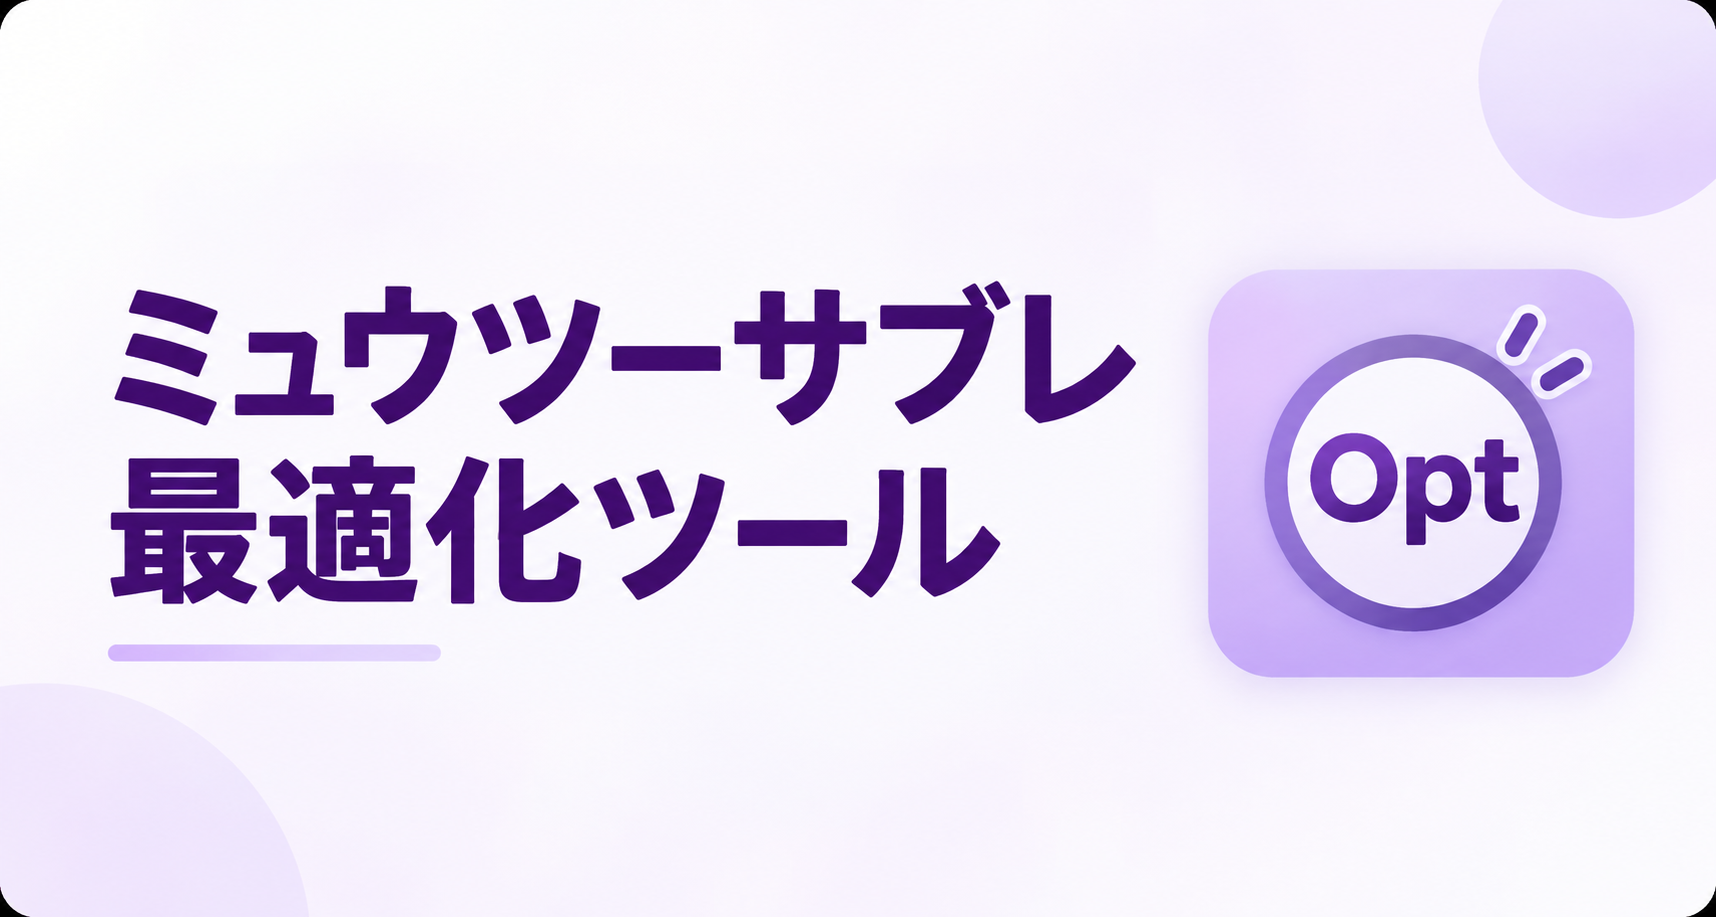
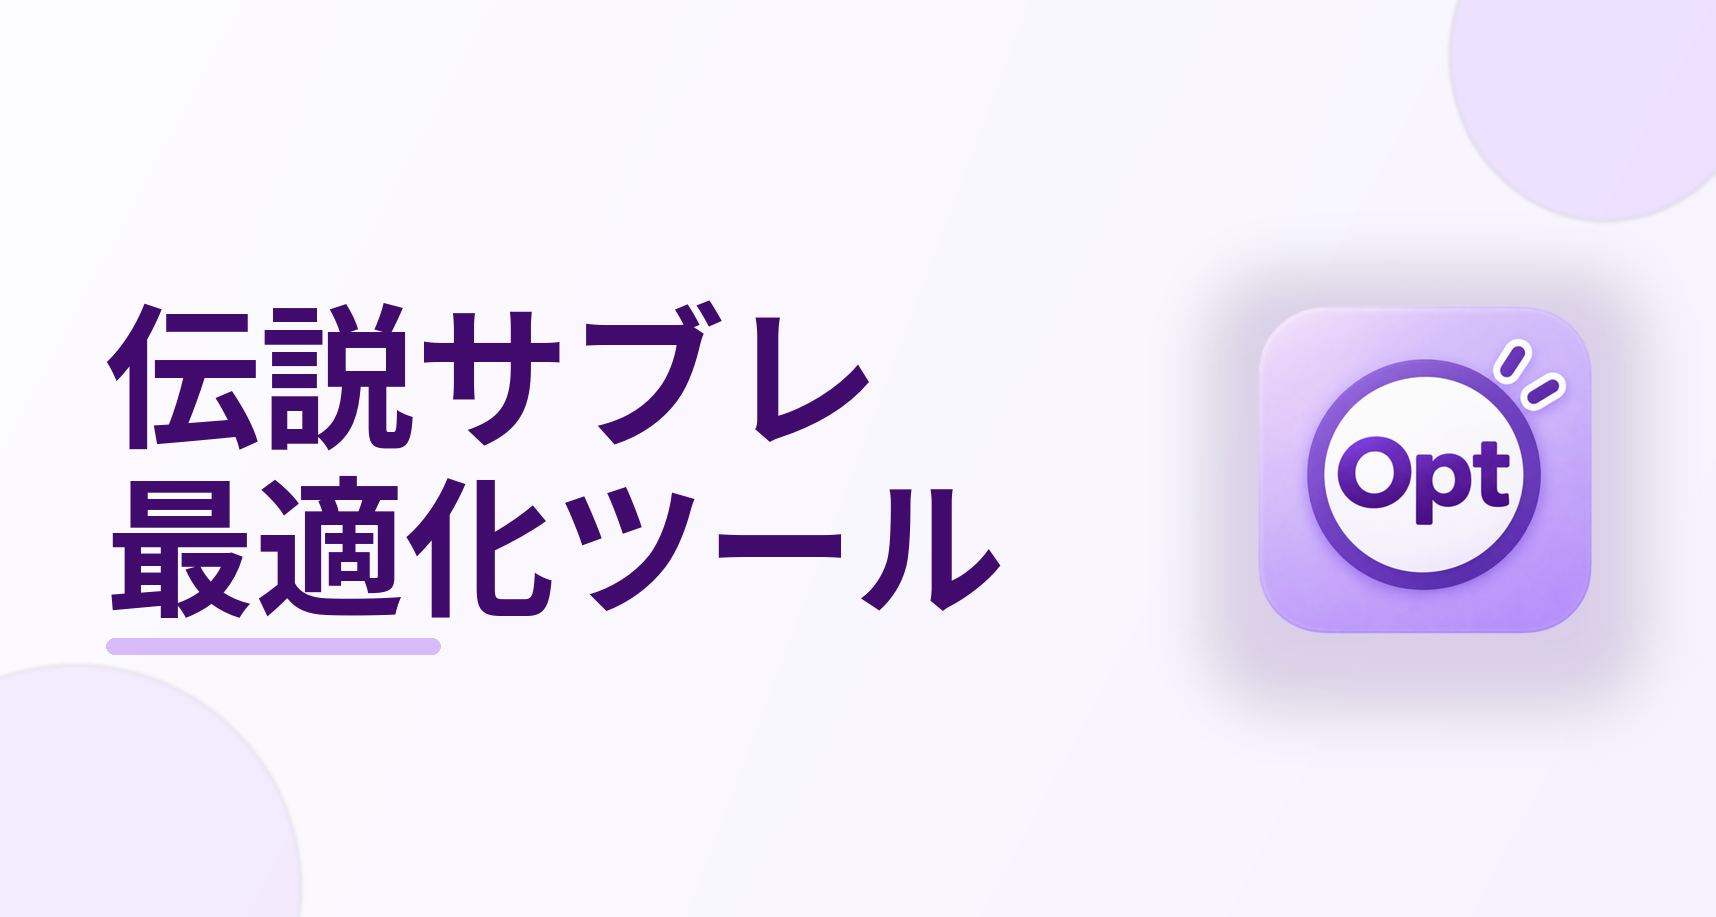
Add files via upload

diff --git a/solver-worker.js b/solver-worker.js
@@ -171,7 +171,7 @@
         { id: 's3', val: 3, name: 'スーパー(3)' },
         { id: 's4', val: ctx.values.s4, name: ctx.premium ? 'ボーナス+(4)' : 'ボーナス(3)' },
         { id: 's5', val: 5, name: 'ハイパー(5)' },
-        { id: 's6', val: 6, name: 'ミュウツー(6)' }
+        { id: 's6', val: 6, name: '伝説(6)' }
       ];
 
       // 同期待値時の比較は探索順に依存させず、後段の完全な比較器で一意に決める。
@@ -340,6 +340,11 @@
       // ボーナス(s4)は使い切り資源なのでここには含めない。
       const carryoverFiniteUseMemo = new Map();
       const forcedCarryoverFiniteUseMemo = new Map();
+      // 最終遭遇専用タイブレーク用。イベント後も汎用価値が残るハイパー(5)を最優先で温存し、
+      // その条件まで同じ候補では、伝説(6)の期待消費も最小化する。
+      // どちらも現在遭遇が終わるまでの「期待消費枚数」を比較する。
+      const actionUseMemo = new Map();
+      const forcedActionUseMemo = new Map();
 
       function policyAction(cg, cp, cChance, s6, s5, s4, s3, s1, ce, mode) {
         if (ce <= 0 || cg >= TARGET) return -1;
@@ -440,6 +445,53 @@
         return out;
       };
 
+
+      function policyExpectedActionUseCurrentEncounter(targetId, cg, cp, cChance, s6, s5, s4, s3, s1, ce, mode) {
+        if (cg >= TARGET || ce <= 0) return 0;
+        const stateKey = memoKey(cg, cp, cChance, s6, s5, s4, s3, s1, ce, mode);
+        const k = `${targetId}|${stateKey}`;
+        const cached = actionUseMemo.get(k);
+        if (cached !== undefined) return cached;
+        const ai = policyAction(cg, cp, cChance, s6, s5, s4, s3, s1, ce, mode);
+        if (ai < 0) { actionUseMemo.set(k, 0); return 0; }
+        const out = forcedActionExpectedActionUseCurrentEncounter(targetId, ai, cg, cp, cChance, s6, s5, s4, s3, s1, ce, mode);
+        actionUseMemo.set(k, out);
+        return out;
+      }
+
+      const forcedActionExpectedActionUseCurrentEncounter = (targetId, ai, cg, cp, cChance, s6, s5, s4, s3, s1, ce, mode) => {
+        if (ai < 0 || cg >= TARGET || ce <= 0) return 0;
+        const stateKey = memoKey(cg, cp, cChance, s6, s5, s4, s3, s1, ce, mode);
+        const forcedKey = `${targetId}|${stateKey}|${ai}`;
+        const cached = forcedActionUseMemo.get(forcedKey);
+        if (cached !== undefined) return cached;
+
+        const a = actions[ai];
+        const useNow = a.id === targetId ? 1 : 0;
+        const [ns6, ns5, ns4, ns3, ns1] = decrementForAction(a.id, s6, s5, s4, s3, s1);
+        const np = Math.min(guarForMode(mode), cp + 1);
+        const afterEatUse = (ng) => {
+          const clamped = Math.min(TARGET, ng);
+          if (clamped >= TARGET) return useNow;
+          return useNow + policyExpectedActionUseCurrentEncounter(targetId, clamped, np, 0, ns6, ns5, ns4, ns3, ns1, ce, mode);
+        };
+
+        let expectedUseAfterEat;
+        if (cChance && cp === 0) {
+          expectedUseAfterEat = 0.10 * useNow
+                          + 0.90 * afterEatUse(cg + a.val * 3);
+        } else {
+          expectedUseAfterEat = 0.02 * useNow
+                          + 0.08 * afterEatUse(cg + a.val * 3)
+                          + 0.90 * afterEatUse(cg + a.val);
+        }
+        // 保証外で食べなかった場合、そのサブレ自体が消費されないため期待消費は0枚。
+        const eatProb = cp >= guarForMode(mode) ? 0.6 : 1.0;
+        const out = eatProb * expectedUseAfterEat;
+        forcedActionUseMemo.set(forcedKey, out);
+        return out;
+      };
+
       // 同期待値の確定取り切り中に、直後に同じサブレを使うだけの余計な前置き投球を避ける。
       // 例: 残り4で「ポケ(1)→ボーナス+(4)」と進むなら、ボーナス+(4)を今投げて捕獲する。
       // ただし、別の有限サブレを新たに消費する最短化は行わず、既存の温存判断を維持する。
@@ -475,14 +527,16 @@
       // 同期待値候補を探索順に依存せず一意に選ぶ完全比較器。
       // 優先順位:
       // 1) passと同値なら、保証内100%を維持できる時だけ投球を優先
-      // 2) チャンス1投GET（候補同士は最小の十分なサブレ）
-      // 3) 19以上・6余剰目安未満なら6温存
-      // 4) 保証内100%維持
-      // 5) 同じ現在回捕獲率なら、使い切り資源のボーナスを優先
-      // 6) 同じ現在回捕獲率なら、持ち越し可能な有限在庫を使わずに済むルートを優先
-      // 7) 不要な前置き投球を省ける場合は即時捕獲を優先
-      // 8) 小さい数字順（同値の3ではボーナス優先）
-      // 9) 最後は固定ID順
+      // 2) 最終遭遇だけ: ハイパー(5)の期待消費を最小化
+      // 3) 最終遭遇だけ: その中で伝説(6)の期待消費も最小化
+      // 4) チャンス1投GET（候補同士は最小の十分なサブレ）
+      // 5) 19以上・6余剰目安未満なら6温存
+      // 6) 保証内100%維持
+      // 7) 同じ現在回捕獲率なら、使い切り資源のボーナスを優先
+      // 8) 同じ現在回捕獲率なら、持ち越し可能な有限在庫を使わずに済むルートを優先
+      // 9) 不要な前置き投球を省ける場合は即時捕獲を優先
+      // 10) 小さい数字順（同値の3ではボーナス優先）
+      // 11) 最後は固定ID順
       // PDFの参考初手表・strategyTypeは行動決定から外し、説明・検証資料へ降格している。
       const chooseTiedAction = (candidateAis, state) => {
         let candidates = candidateAis.slice();
@@ -507,23 +561,6 @@
           if (subset.length > 0) candidates = subset;
         };
 
-        // チャンス1投目で確実に届く候補があるなら、その集合を最優先。
-        if (cChance && cp === 0) {
-          const oneThrow = candidates.filter(ai => catchesOnMinimum(ai, cg, cp, cChance));
-          if (oneThrow.length > 0) {
-            candidates = oneThrow;
-            const bestSmall = Math.min(...candidates.map(ai => smallActionRank(actions[ai])));
-            candidates = candidates.filter(ai => smallActionRank(actions[ai]) === bestSmall);
-            if (candidates.length === 1) return candidates[0];
-          }
-        }
-
-        // 残り19以上・余剰目安未満で完全同値なら6を温存。
-        if (preferPreserveS6OnTie) filterIfAny(ai => actions[ai].id !== 's6');
-
-        // 保証内100%捕獲を維持できる候補があれば、その集合へ絞る。
-        if (preferGuaranteedFinishOnTie) filterIfAny(ai => getKeepsGuarantee(ai));
-
         const catchProbMemoLocal = new Map();
         const getCatchProb = (ai) => {
           if (!catchProbMemoLocal.has(ai)) {
@@ -541,6 +578,45 @@
           }
           return maxP - minP <= EPS;
         };
+
+        // 最終遭遇では、次の伝説遭遇へ6を残す価値が消える一方、
+        // ハイパー(5)はイベント後も汎用資源として価値が残る。
+        // イベント期待値（= 最終遭遇では現在回捕獲率）が同じ候補に限り、
+        // ①ハイパーの期待消費を最小化 → ②その中で伝説の期待消費を最小化する。
+        // これによりハイパー温存を優先しつつ、6の不要な連打も抑える。
+        if (ce === 1 && candidates.length > 1 && allSameCatchProb()) {
+          const minimizeExpectedUse = (targetId) => {
+            if (ctx.isInf[targetId] || candidates.length <= 1) return;
+            const costs = new Map();
+            let minCost = Infinity;
+            for (const ai of candidates) {
+              const cost = forcedActionExpectedActionUseCurrentEncounter(targetId, ai, cg, cp, cChance, s6, s5, s4, s3, s1, ce, mode);
+              costs.set(ai, cost);
+              if (cost < minCost) minCost = cost;
+            }
+            candidates = candidates.filter(ai => Math.abs(costs.get(ai) - minCost) <= EPS);
+          };
+          minimizeExpectedUse('s5');
+          minimizeExpectedUse('s6');
+          if (candidates.length === 1) return candidates[0];
+        }
+
+        // チャンス1投目で確実に届く候補があるなら、その集合を最優先。
+        if (cChance && cp === 0) {
+          const oneThrow = candidates.filter(ai => catchesOnMinimum(ai, cg, cp, cChance));
+          if (oneThrow.length > 0) {
+            candidates = oneThrow;
+            const bestSmall = Math.min(...candidates.map(ai => smallActionRank(actions[ai])));
+            candidates = candidates.filter(ai => smallActionRank(actions[ai]) === bestSmall);
+            if (candidates.length === 1) return candidates[0];
+          }
+        }
+
+        // 残り19以上・余剰目安未満で完全同値なら6を温存。
+        if (preferPreserveS6OnTie) filterIfAny(ai => actions[ai].id !== 's6');
+
+        // 保証内100%捕獲を維持できる候補があれば、その集合へ絞る。
+        if (preferGuaranteedFinishOnTie) filterIfAny(ai => getKeepsGuarantee(ai));
 
         // ボーナスは有限在庫ではなく、その遭遇で使わなければ消える「使い切り資源」。
         // イベント期待値と現在回捕獲率が同じなら、持ち越せる資源より先に消化する。

diff --git a/index.html b/index.html
@@ -4,8 +4,8 @@
   <meta charset="UTF-8">
   <meta name="viewport" content="width=device-width, initial-scale=1.0, maximum-scale=1.0, user-scalable=no">
   <meta http-equiv="Content-Security-Policy" content="default-src 'self'; script-src 'self' 'unsafe-inline' blob:; worker-src 'self' blob:; style-src 'self' 'unsafe-inline'; connect-src 'none'; img-src 'self' data:; object-src 'none'; base-uri 'none'; form-action 'none'">
-  <title>ミュウツーサブレ最適化ツール</title>
-  <meta name="description" content="ポケモンスリープのミュウツーサブレ運用を、現在の在庫・フレンドポイント・残り出会い回数から最適化するツール。">
+  <title>伝説サブレ最適化ツール</title>
+  <meta name="description" content="ポケモンスリープの伝説サブレ運用を、現在の在庫・フレンドポイント・残り出会い回数から最適化するツール。">
   <link rel="canonical" href="https://meka-create.github.io/pokemonsleep-sable-opt/">
   <link rel="manifest" href="./manifest.webmanifest">
   <link rel="icon" type="image/png" sizes="32x32" href="./icons/favicon-32.png">
@@ -14,19 +14,19 @@
   <meta name="theme-color" content="#9333ea">
   <meta name="apple-mobile-web-app-capable" content="yes">
   <meta name="apple-mobile-web-app-status-bar-style" content="default">
-  <meta name="apple-mobile-web-app-title" content="ミュウツーサブレOpt">
+  <meta name="apple-mobile-web-app-title" content="伝説サブレOpt">
   <meta name="mobile-web-app-capable" content="yes">
   <meta property="og:type" content="website">
-  <meta property="og:site_name" content="ミュウツーサブレ最適化ツール">
-  <meta property="og:title" content="ミュウツーサブレ最適化ツール">
-  <meta property="og:description" content="ポケモンスリープのミュウツーサブレ運用を、現在の在庫・フレンドポイント・残り出会い回数から最適化するツール。">
+  <meta property="og:site_name" content="伝説サブレ最適化ツール">
+  <meta property="og:title" content="伝説サブレ最適化ツール">
+  <meta property="og:description" content="ポケモンスリープの伝説サブレ運用を、現在の在庫・フレンドポイント・残り出会い回数から最適化するツール。">
   <meta property="og:url" content="https://meka-create.github.io/pokemonsleep-sable-opt/">
   <meta property="og:image" content="https://meka-create.github.io/pokemonsleep-sable-opt/ogp-card.png">
   <meta property="og:image:width" content="1716">
   <meta property="og:image:height" content="917">
   <meta name="twitter:card" content="summary_large_image">
-  <meta name="twitter:title" content="ミュウツーサブレ最適化ツール">
-  <meta name="twitter:description" content="ポケモンスリープのミュウツーサブレ運用を、現在の在庫・フレンドポイント・残り出会い回数から最適化するツール。">
+  <meta name="twitter:title" content="伝説サブレ最適化ツール">
+  <meta name="twitter:description" content="ポケモンスリープの伝説サブレ運用を、現在の在庫・フレンドポイント・残り出会い回数から最適化するツール。">
   <meta name="twitter:image" content="https://meka-create.github.io/pokemonsleep-sable-opt/ogp-card.png">
   <style>
     :root {
@@ -223,7 +223,7 @@
 </head>
 <body>
   <div class="app">
-    <header><div class="header-row"><h1><span class="opt">Opt</span>ミュウツーサブレ</h1><button id="tipsBtn" class="tips-btn" type="button" aria-haspopup="dialog" aria-controls="tipsDialog" title="使い方を開く">TIPS</button></div></header>
+    <header><div class="header-row"><h1><span class="opt">Opt</span>伝説サブレ</h1><button id="tipsBtn" class="tips-btn" type="button" aria-haspopup="dialog" aria-controls="tipsDialog" title="使い方を開く">TIPS</button></div></header>
     <main>
       <section class="card main-card">
         <h2 class="section-title">実践シミュレーター</h2>
@@ -341,7 +341,7 @@
       <section class="tips-section">
         <h3>使い方</h3>
         <div class="tips-step"><span class="tips-step-title">① 現在の状態を設定</span><p>フレンドポイントを入力。チャンス状態なら1投目の前にON。分割睡眠2回目なら「確定ライン」を2枚にします。2枚にすると、ボーナスサブレも連動して0枚になります。</p></div>
-        <div class="tips-step"><span class="tips-step-title">② 在庫と残り回数を設定</span><p>プレパス、各サブレの所持数、今後ミュウツーに出会う予定回数を設定。十分に使えるポケサブレ・スーパーサブレは「∞」にできます。設定後、「設定を適用して再計算」。</p></div>
+        <div class="tips-step"><span class="tips-step-title">② 在庫と残り回数を設定</span><p>プレパス、各サブレの所持数、今後伝説ポケモンに出会う予定回数を設定。十分に使えるポケサブレ・スーパーサブレは「∞」にできます。設定後、「設定を適用して再計算」。</p></div>
         <div class="tips-step"><span class="tips-step-title">③ 結果を入力</span><p>表示された「次の一手」を投げ、実際の結果をタップ。リサーチ終了後は「次の出会いへ進む」。</p></div>
         <p class="tips-note"><strong>将来の2枚保証</strong>今後の分割睡眠2回目が決まっている場合は、残り出会い回数の「詳細」で詳細設定をONにし、対象の出会いを2枚にします。</p>
       </section>

diff --git a/app.js b/app.js
@@ -123,7 +123,7 @@
     const els = Object.fromEntries(['gaugeInput','progressBar','resetGauge','chanceLabel','chanceToggle','guaranteeSelect','guaranteeTrigger','guaranteeTriggerText','guaranteeMenu','feedStatus','nextMove','detailCard','catchProb','route','resultArea','normalBtn','bigBtn','superBtn','fullBtn','fullMessage','passMessage','undoBtn','nextEncounterBtn','nextEncounterDialog','nextEncounterCancel','nextEncounterProceed','resetGaugeDialog','resetGaugeCancel','resetGaugeProceed','expectedTotal','expectBox','premiumToggle','premiumTrack','premiumLabel','inputList','applyWrap','applyBtn','futureDialog','futureDialogClose','futureDetailToggle','futureOffNote','futureScheduleWrap','futureScheduleList'].map(id=>[id,$(id)]));
 
     const ROWS = [
-      {id:'s6', label:()=> 'ミュウツーサブレ (6)', inf:false},
+      {id:'s6', label:()=> '伝説サブレ (6)', inf:false},
       {id:'s5', label:()=> 'ハイパーサブレ (5)', inf:false},
       {id:'s4', label:()=> state.isPremium ? 'ボーナスサブレ+ (4)' : 'ボーナスサブレ (3)', inf:false, max:1},
       {id:'s3', label:()=> 'スーパーサブレ (3)', inf:true},

diff --git a/sw.js b/sw.js
@@ -1,4 +1,4 @@
-const CACHE_NAME = 'mewtwo-sable-opt-v4-program-cleanup';
+const CACHE_NAME = 'legendary-sable-opt-v6-generic-name';
 const APP_SHELL = [
   './',
   './index.html',
